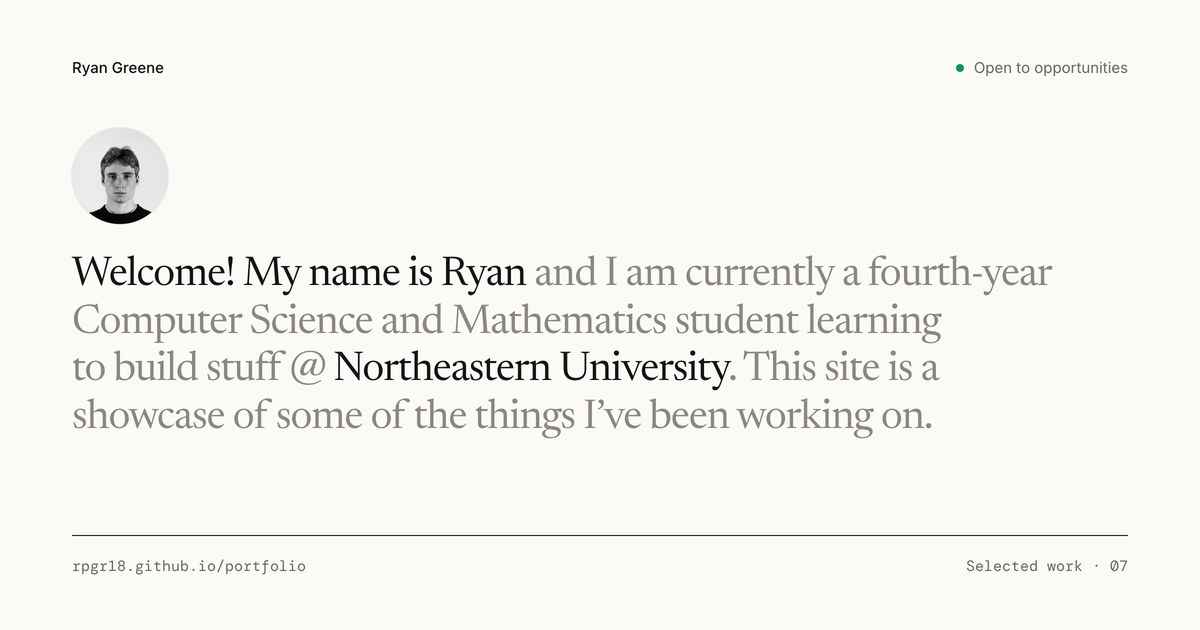
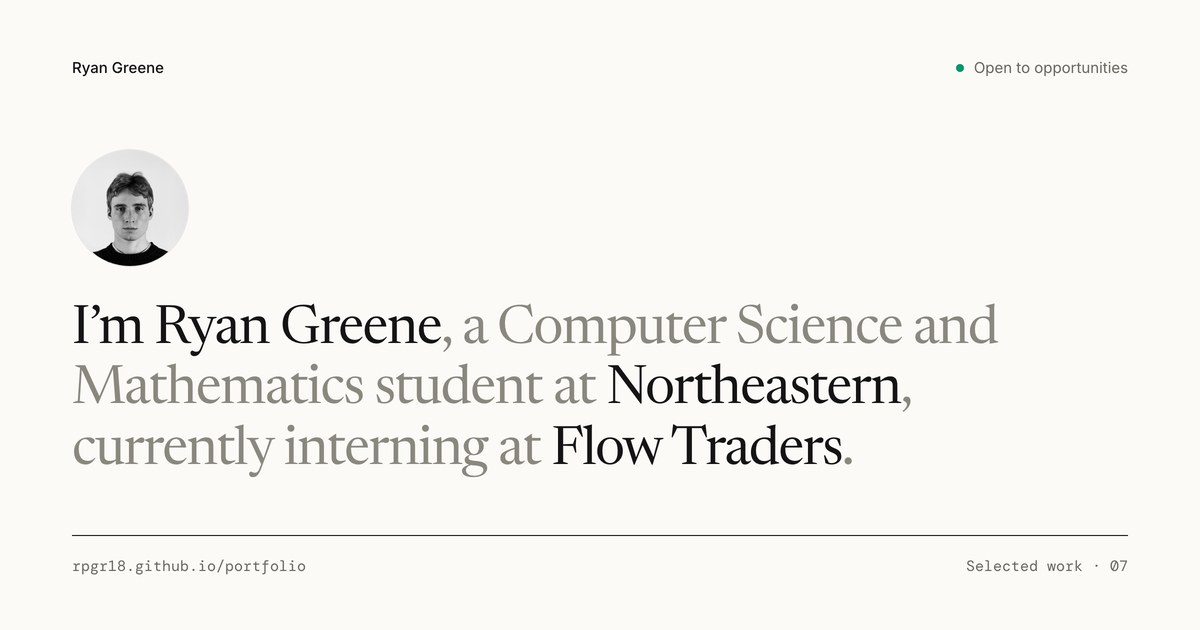
Hero back to the previous sentence with its hover cards

Changed region(s): [[0.0617, 0.4825, 0.8325, 0.754], [0.0617, 0.2111, 0.8942, 0.4524]]

diff --git a/index.html b/index.html
@@ -24,7 +24,7 @@
   <link rel="preconnect" href="https://fonts.googleapis.com">
   <link rel="preconnect" href="https://fonts.gstatic.com" crossorigin>
   <link rel="stylesheet" href="https://fonts.googleapis.com/css2?family=DM+Mono:wght@400;500&family=Inter:ital,wght@0,400;0,500;1,400&family=Newsreader:ital,opsz,wght@0,6..72,400;0,6..72,500;1,6..72,400&display=swap">
-  <link rel="stylesheet" href="assets/site.css?v=df2a03c5">
+  <link rel="stylesheet" href="assets/site.css?v=d6f747a6">
   <script>
     // Runs before first paint: mark JS as available and apply a saved dark theme without a flash of white
     document.documentElement.classList.add('js');
@@ -79,7 +79,7 @@
       <!-- ===== Hero: a profile photo, then the introduction as one sentence of display type ===== -->
       <section class="ed-hero" aria-labelledby="intro">
         <img class="ed-avatar" src="img/avatar.jpg" alt="Ryan Greene" width="384" height="384" fetchpriority="high">
-        <h1 class="ed-sentence" id="intro"><strong>Welcome! My name is Ryan</strong> and I am currently a fourth-year Computer Science and Mathematics student learning to build stuff @ <strong class="hc-word" tabindex="0" aria-describedby="hc-nu">Northeastern University<span class="hc" id="hc-nu" aria-hidden="true"><span class="hc-top"><img src="img/logos/northeastern.png" alt="" width="40" height="40"><span><span class="hc-t">Northeastern University</span><span class="hc-s">B.S. Computer Science, Minor in Mathematics</span></span></span><span class="hc-b">GPA 3.74 · Dean’s List · Dean’s Scholarship</span><span class="hc-f">Expected Dec 2027 · Boston, MA</span></span></strong>. This site is a showcase of some of the things I’ve been working on.</h1>
+        <h1 class="ed-sentence" id="intro"><strong>I’m Ryan Greene</strong>, a Computer Science and Mathematics student at <strong class="hc-word" tabindex="0" aria-describedby="hc-nu">Northeastern<span class="hc" id="hc-nu" aria-hidden="true"><span class="hc-top"><img src="img/logos/northeastern.png" alt="" width="40" height="40"><span><span class="hc-t">Northeastern University</span><span class="hc-s">B.S. Computer Science, Minor in Mathematics</span></span></span><span class="hc-b">GPA 3.74 · Dean’s List · Dean’s Scholarship</span><span class="hc-f">Expected Dec 2027 · Boston, MA</span></span></strong>, currently interning at <strong class="hc-word" tabindex="0" aria-describedby="hc-ft">Flow Traders<span class="hc" id="hc-ft" aria-hidden="true"><span class="hc-top"><img src="img/logos/flow-traders.png" alt="" width="40" height="40"><span><span class="hc-t">Flow Traders</span><span class="hc-s">Trading Infrastructure Engineer Intern</span></span></span><span class="hc-b">Building automation and monitoring for trading infrastructure across the US, Europe and Asia.</span><span class="hc-f">Jul 2026 – Present · Manhattan, NY</span></span></strong> in <span class="hc-word" tabindex="0" aria-describedby="hc-ny">New York<span class="hc" id="hc-ny" aria-hidden="true"><span class="hc-top"><span><span class="hc-t">New York</span><span class="hc-s">Local time</span></span></span><span class="hc-clock"><time class="ny-time"></time></span><span class="hc-f">Manhattan, NY</span></span></span>. Here’s some of what I’ve been building.</h1>
         <div class="ed-actions">
           <a class="btn btn-primary" href="mailto:greene.ry@northeastern.edu">Get in touch</a>
           <button class="btn btn-secondary" type="button" data-copy="greene.ry@northeastern.edu">Copy email <svg aria-hidden="true"><use href="#i-copy"/></svg></button>
@@ -387,6 +387,6 @@
     </footer>
   </div>
 
-  <script src="assets/site.js?v=df2a03c5"></script>
+  <script src="assets/site.js?v=d6f747a6"></script>
 </body>
 </html>

diff --git a/work/dsa-cli.html b/work/dsa-cli.html
@@ -24,7 +24,7 @@
   <link rel="preconnect" href="https://fonts.googleapis.com">
   <link rel="preconnect" href="https://fonts.gstatic.com" crossorigin>
   <link rel="stylesheet" href="https://fonts.googleapis.com/css2?family=DM+Mono:wght@400;500&family=Inter:wght@400;500&family=Newsreader:ital,opsz,wght@0,6..72,400;1,6..72,400&display=swap">
-  <link rel="stylesheet" href="../assets/site.css?v=df2a03c5">
+  <link rel="stylesheet" href="../assets/site.css?v=d6f747a6">
   <script>
     // Runs before first paint: mark JS as available and apply a saved dark theme without a flash of white
     document.documentElement.classList.add('js');
@@ -168,6 +168,6 @@ dsa review           <span class="dim"># what spaced repetition says is due</spa
     </footer>
   </div>
 
-  <script src="../assets/site.js?v=df2a03c5"></script>
+  <script src="../assets/site.js?v=d6f747a6"></script>
 </body>
 </html>

diff --git a/work/marine-seismic.html b/work/marine-seismic.html
@@ -24,7 +24,7 @@
   <link rel="preconnect" href="https://fonts.googleapis.com">
   <link rel="preconnect" href="https://fonts.gstatic.com" crossorigin>
   <link rel="stylesheet" href="https://fonts.googleapis.com/css2?family=DM+Mono:wght@400;500&family=Inter:wght@400;500&family=Newsreader:ital,opsz,wght@0,6..72,400;1,6..72,400&display=swap">
-  <link rel="stylesheet" href="../assets/site.css?v=df2a03c5">
+  <link rel="stylesheet" href="../assets/site.css?v=d6f747a6">
   <script>
     // Runs before first paint: mark JS as available and apply a saved dark theme without a flash of white
     document.documentElement.classList.add('js');
@@ -230,6 +230,6 @@
     </footer>
   </div>
 
-  <script src="../assets/site.js?v=df2a03c5"></script>
+  <script src="../assets/site.js?v=d6f747a6"></script>
 </body>
 </html>

diff --git a/work/matching-engine.html b/work/matching-engine.html
@@ -24,7 +24,7 @@
   <link rel="preconnect" href="https://fonts.googleapis.com">
   <link rel="preconnect" href="https://fonts.gstatic.com" crossorigin>
   <link rel="stylesheet" href="https://fonts.googleapis.com/css2?family=DM+Mono:wght@400;500&family=Inter:wght@400;500&family=Newsreader:ital,opsz,wght@0,6..72,400;1,6..72,400&display=swap">
-  <link rel="stylesheet" href="../assets/site.css?v=df2a03c5">
+  <link rel="stylesheet" href="../assets/site.css?v=d6f747a6">
   <script>
     // Runs before first paint: mark JS as available and apply a saved dark theme without a flash of white
     document.documentElement.classList.add('js');
@@ -244,6 +244,6 @@
     </footer>
   </div>
 
-  <script src="../assets/site.js?v=df2a03c5"></script>
+  <script src="../assets/site.js?v=d6f747a6"></script>
 </body>
 </html>

diff --git a/work/options-pricing.html b/work/options-pricing.html
@@ -24,7 +24,7 @@
   <link rel="preconnect" href="https://fonts.googleapis.com">
   <link rel="preconnect" href="https://fonts.gstatic.com" crossorigin>
   <link rel="stylesheet" href="https://fonts.googleapis.com/css2?family=DM+Mono:wght@400;500&family=Inter:wght@400;500&family=Newsreader:ital,opsz,wght@0,6..72,400;1,6..72,400&display=swap">
-  <link rel="stylesheet" href="../assets/site.css?v=df2a03c5">
+  <link rel="stylesheet" href="../assets/site.css?v=d6f747a6">
   <script>
     // Runs before first paint: mark JS as available and apply a saved dark theme without a flash of white
     document.documentElement.classList.add('js');
@@ -232,6 +232,6 @@
     </footer>
   </div>
 
-  <script src="../assets/site.js?v=df2a03c5"></script>
+  <script src="../assets/site.js?v=d6f747a6"></script>
 </body>
 </html>

diff --git a/work/papertrade-sim.html b/work/papertrade-sim.html
@@ -24,7 +24,7 @@
   <link rel="preconnect" href="https://fonts.googleapis.com">
   <link rel="preconnect" href="https://fonts.gstatic.com" crossorigin>
   <link rel="stylesheet" href="https://fonts.googleapis.com/css2?family=DM+Mono:wght@400;500&family=Inter:wght@400;500&family=Newsreader:ital,opsz,wght@0,6..72,400;1,6..72,400&display=swap">
-  <link rel="stylesheet" href="../assets/site.css?v=df2a03c5">
+  <link rel="stylesheet" href="../assets/site.css?v=d6f747a6">
   <script>
     // Runs before first paint: mark JS as available and apply a saved dark theme without a flash of white
     document.documentElement.classList.add('js');
@@ -162,6 +162,6 @@
     </footer>
   </div>
 
-  <script src="../assets/site.js?v=df2a03c5"></script>
+  <script src="../assets/site.js?v=d6f747a6"></script>
 </body>
 </html>

diff --git a/work/portfolio-optimizer.html b/work/portfolio-optimizer.html
@@ -24,7 +24,7 @@
   <link rel="preconnect" href="https://fonts.googleapis.com">
   <link rel="preconnect" href="https://fonts.gstatic.com" crossorigin>
   <link rel="stylesheet" href="https://fonts.googleapis.com/css2?family=DM+Mono:wght@400;500&family=Inter:wght@400;500&family=Newsreader:ital,opsz,wght@0,6..72,400;1,6..72,400&display=swap">
-  <link rel="stylesheet" href="../assets/site.css?v=df2a03c5">
+  <link rel="stylesheet" href="../assets/site.css?v=d6f747a6">
   <script>
     // Runs before first paint: mark JS as available and apply a saved dark theme without a flash of white
     document.documentElement.classList.add('js');
@@ -236,6 +236,6 @@
     </footer>
   </div>
 
-  <script src="../assets/site.js?v=df2a03c5"></script>
+  <script src="../assets/site.js?v=d6f747a6"></script>
 </body>
 </html>

diff --git a/work/surfpy-api.html b/work/surfpy-api.html
@@ -24,7 +24,7 @@
   <link rel="preconnect" href="https://fonts.googleapis.com">
   <link rel="preconnect" href="https://fonts.gstatic.com" crossorigin>
   <link rel="stylesheet" href="https://fonts.googleapis.com/css2?family=DM+Mono:wght@400;500&family=Inter:wght@400;500&family=Newsreader:ital,opsz,wght@0,6..72,400;1,6..72,400&display=swap">
-  <link rel="stylesheet" href="../assets/site.css?v=df2a03c5">
+  <link rel="stylesheet" href="../assets/site.css?v=d6f747a6">
   <script>
     // Runs before first paint: mark JS as available and apply a saved dark theme without a flash of white
     document.documentElement.classList.add('js');
@@ -173,6 +173,6 @@
     </footer>
   </div>
 
-  <script src="../assets/site.js?v=df2a03c5"></script>
+  <script src="../assets/site.js?v=d6f747a6"></script>
 </body>
 </html>

diff --git a/assets/site.css b/assets/site.css
@@ -505,7 +505,7 @@ html.theme-switching :is(.work-t, .cs-head h1, .cs-next-t) { view-transition-nam
    step lighter, and the photo sits in the line as a pill right after the name. */
 .ed-hero { padding: clamp(40px, 6vw, 96px) 0 0; }
 .ed-sentence {
-  max-width: 23em; font: 400 clamp(1.75rem, 3.9vw, 3.5rem)/1.14 var(--display);   /* a step under --t-display: the About text is a paragraph */ font-optical-sizing: auto;
+  max-width: 21em; font: 400 var(--t-display)/1.12 var(--display); font-optical-sizing: auto;
   letter-spacing: -0.025em; color: var(--muted); text-wrap: balance;
 }
 .ed-sentence strong { font-weight: 400; color: var(--strong); }
